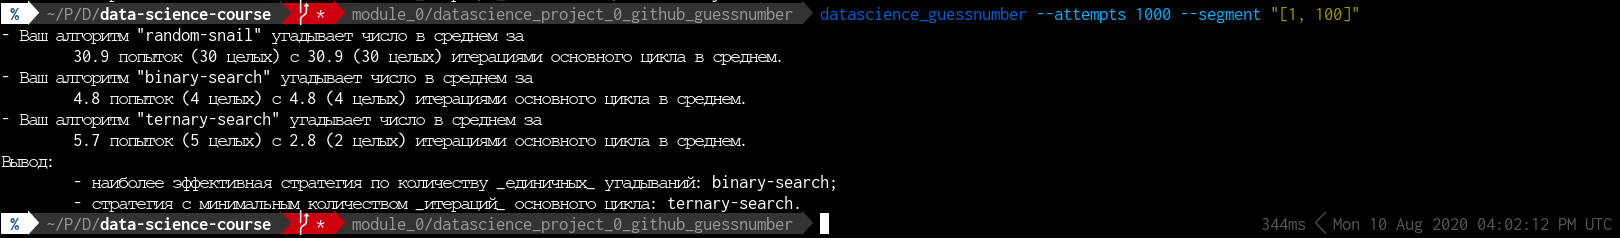
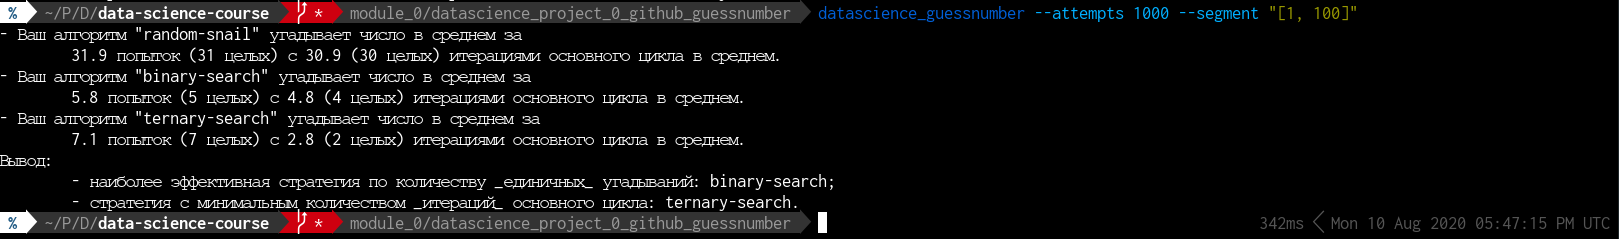
Version 0.1.6

diff --git a/module_0/datascience_project_0_github_guessnumber/datascience_project_0_github_guessnumber/guess_number.py b/module_0/datascience_project_0_github_guessnumber/datascience_project_0_github_guessnumber/guess_number.py
@@ -45,6 +45,8 @@ def guess_number_game_core_random_snail(number: int, segment: Tuple):
             predicted_number += 1
         elif number < predicted_number:
             predicted_number -= 1
+    else:
+        count += 1  # Увеличиваем счётчик на 1 для последнего успешного сравнения
 
     return count, iterations
 
@@ -70,6 +72,8 @@ def guess_number_game_core_binary_search(number: int, segment: Tuple):
         elif number < predicted_number:
             upper = predicted_number - 1
         predicted_number = lower + (upper - lower) // 2
+    else:
+        count += 1  # Увеличиваем счётчик на 1 для последнего успешного сравнения
 
     return count, iterations
 
@@ -101,6 +105,8 @@ def guess_number_game_core_ternary_search(number: int, segment: Tuple):
 
         middle_1 = lower + (upper - lower) // 3
         middle_2 = upper - (upper - lower) // 3
+    else:
+        count += 1 if middle_1 == number else 2  # Увеличиваем значение счётчика для последнего успешного сравнения
 
     return count, iterations
 

diff --git a/module_0/datascience_project_0_github_guessnumber/setup.py b/module_0/datascience_project_0_github_guessnumber/setup.py
@@ -9,7 +9,7 @@ if __name__ == "__main__":
 
     setuptools.setup(
         name="datascience_project_0_github_guessnumber",
-        version="0.1.5",
+        version="0.1.6",
         platforms='any',
         description="Data science project 0: A guess number game example with primitive self-testing",
         long_description=long_description,

diff --git a/module_0/datascience_project_0_github_guessnumber/README.md b/module_0/datascience_project_0_github_guessnumber/README.md
@@ -94,11 +94,11 @@ datascience_guessnumber
 #### Execution result:
 ```
 - Ваш алгоритм "random-snail" угадывает число в среднем за
-	30.9 попыток (30 целых) с 30.9 (30 целых) итерациями основного цикла в среднем.
+	31.9 попыток (31 целых) с 30.9 (30 целых) итерациями основного цикла в среднем.
 - Ваш алгоритм "binary-search" угадывает число в среднем за
-	4.8 попыток (4 целых) с 4.8 (4 целых) итерациями основного цикла в среднем.
+	5.8 попыток (5 целых) с 4.8 (4 целых) итерациями основного цикла в среднем.
 - Ваш алгоритм "ternary-search" угадывает число в среднем за
-	5.7 попыток (5 целых) с 2.8 (2 целых) итерациями основного цикла в среднем.
+	7.1 попыток (7 целых) с 2.8 (2 целых) итерациями основного цикла в среднем.
 Вывод:
 	- наиболее эффективная стратегия по количеству _единичных_ угадываний: binary-search;
 	- стратегия с минимальным количеством _итераций_ основного цикла: ternary-search.
@@ -116,9 +116,9 @@ datascience_guessnumber --game-strategies random-snail,binary-search
 #### Execution result:
 ```
 - Ваш алгоритм "random-snail" угадывает число в среднем за
-	30.9 попыток (30 целых) с 30.9 (30 целых) итерациями основного цикла в среднем.
+	31.9 попыток (31 целых) с 30.9 (30 целых) итерациями основного цикла в среднем.
 - Ваш алгоритм "binary-search" угадывает число в среднем за
-	4.8 попыток (4 целых) с 4.8 (4 целых) итерациями основного цикла в среднем.
+	5.8 попыток (5 целых) с 4.8 (4 целых) итерациями основного цикла в среднем.
 Вывод:
 	- наиболее эффективная стратегия по количеству _единичных_ угадываний: binary-search;
 	- стратегия с минимальным количеством _итераций_ основного цикла: binary-search.
@@ -136,11 +136,11 @@ datascience_guessnumber --attempts 1000 --segment "[1, 100]"
 #### Execution result:
 ```
 - Ваш алгоритм "random-snail" угадывает число в среднем за
-	30.9 попыток (30 целых) с 30.9 (30 целых) итерациями основного цикла в среднем.
+	31.9 попыток (31 целых) с 30.9 (30 целых) итерациями основного цикла в среднем.
 - Ваш алгоритм "binary-search" угадывает число в среднем за
-	4.8 попыток (4 целых) с 4.8 (4 целых) итерациями основного цикла в среднем.
+	5.8 попыток (5 целых) с 4.8 (4 целых) итерациями основного цикла в среднем.
 - Ваш алгоритм "ternary-search" угадывает число в среднем за
-	5.7 попыток (5 целых) с 2.8 (2 целых) итерациями основного цикла в среднем.
+	7.1 попыток (7 целых) с 2.8 (2 целых) итерациями основного цикла в среднем.
 Вывод:
 	- наиболее эффективная стратегия по количеству _единичных_ угадываний: binary-search;
 	- стратегия с минимальным количеством _итераций_ основного цикла: ternary-search.

diff --git a/module_0/datascience_project_0_github_guessnumber/CHANGELOG.md b/module_0/datascience_project_0_github_guessnumber/CHANGELOG.md
@@ -1,5 +1,12 @@
 # Changelog
 
+## Version 0.1.6
+
+- Исправлены счётчики сравнений предполагаемого числа с загаданным числом.
+  Учтено, что нужно дополнительно увеличить счётчик на 1 или
+  {1 или 2} (тернарный поиск), если последнее сравнение было успешным и
+  основной цикл алгоритма угадывания числа завершился. 
+
 ## Version 0.1.5
 
 - Улучшены текстовые сообщения о количестве угадываний и количестве итераций.
